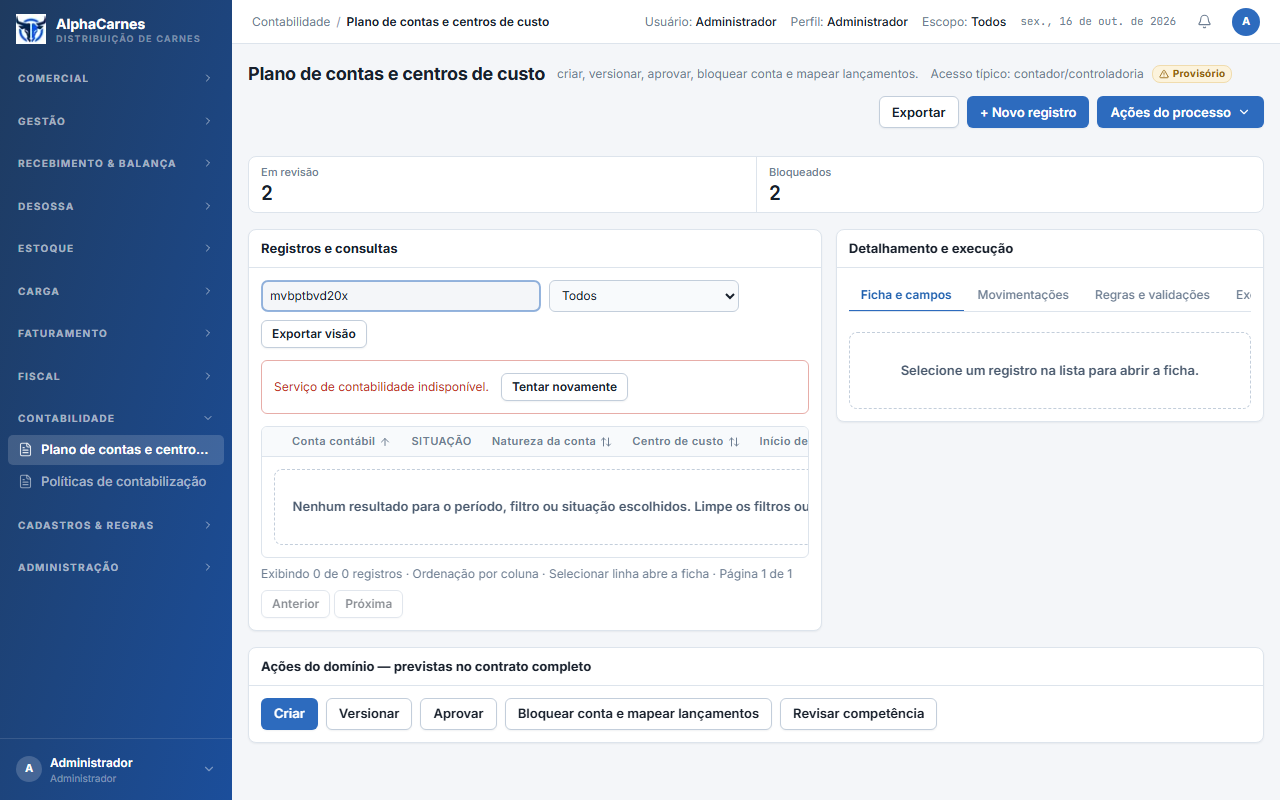
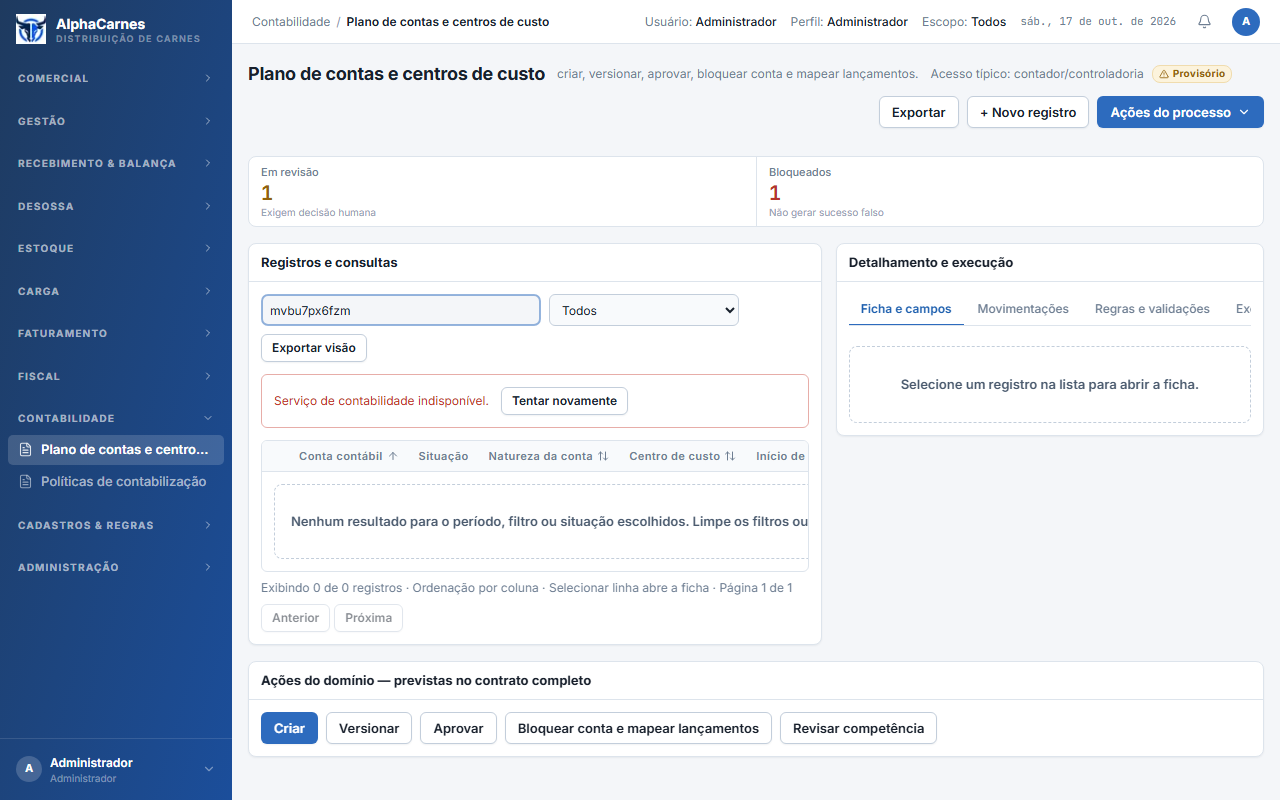
docs(e09-t01-t02): capturas do app regeradas após o Portão 2 r2, com a lista a 760px
### Descrição Detalhada:
Regera as capturas `app-*.png` de docs/evidencias/e09-t01 e e09-t02 (as do protótipo são mantidas) e acrescenta `app-lista-760.png` e `prototipo-lista-760.png` nas duas telas e `app-lookup.png` na T02. Os specs de captura passam a redimensionar para 760px depois da lista, abrir o lookup de Conta de débito na T02 e esperar o fim do "Carregando…" antes da lista.

### Motivo da Mudança:
Evidência visual dos achados do Portão 2 r2: cartões abaixo de 800px, "+ Novo registro" secundário, dicas e tons dos KPIs, parágrafo do modal e lookup das contas.

### Impacto:
Só evidências e specs de captura. Divergência a registrar: a 760px o protótipo mantém a tabela com rolagem horizontal; o app segue o plano (Task 6) e mostra um cartão por linha.

diff --git a/app/frontend/e2e/capture-e09-t02-evidencias.spec.ts b/app/frontend/e2e/capture-e09-t02-evidencias.spec.ts
@@ -83,6 +83,9 @@ test.describe('E09-T02 evidências app × protótipo', () => {
     await abrirPrototipo(proto);
     await capturar(proto, 'prototipo-lista.png', proto.locator('tr[data-row]').first());
     await capturar(proto, 'prototipo-ficha.png', proto.getByText('Trilha e responsabilização'));
+    await proto.setViewportSize({ width: 760, height: 800 });
+    await capturar(proto, 'prototipo-lista-760.png', proto.locator('tr[data-row]').first());
+    await proto.setViewportSize({ width: 1280, height: 800 });
     for (const item of ABAS_PROTOTIPO) {
       await abrirPrototipo(proto);
       await proto.getByRole('tab', { name: item.aba, exact: true }).click();
@@ -101,7 +104,12 @@ test.describe('E09-T02 evidências app × protótipo', () => {
     await expect(page.getByRole('heading', { name: TITULO, level: 1 })).toBeVisible({ timeout: 60_000 });
     await page.getByLabel('Buscar registros da lista', { exact: true }).fill(plano.debitoNome);
     await expect(page.locator('.politicas-grade tbody tr')).toHaveCount(3, { timeout: 30_000 });
+    await expect(page.getByText('Carregando…', { exact: true })).toBeHidden({ timeout: 30_000 });
     await capturar(page, 'app-lista.png', page.locator('.politicas-grade').getByText('Rascunho', { exact: true }).first());
+    // Abaixo de 800px cada linha vira cartão (Task 6): a mesma lista a 760px.
+    await page.setViewportSize({ width: 760, height: 800 });
+    await capturar(page, 'app-lista-760.png', page.locator('.politicas-grade tbody tr').first());
+    await page.setViewportSize({ width: 1280, height: 800 });
     await page.locator('.politicas-grade tbody tr').nth(1).click();
     await capturar(page, 'app-ficha.png', page.getByRole('tabpanel').getByText('Trilha e responsabilização'));
     for (const item of ABAS_APP) {
@@ -115,6 +123,11 @@ test.describe('E09-T02 evidências app × protótipo', () => {
     const drawer = page.getByRole('dialog', { name: TITULO, exact: true });
     await expect(drawer.getByLabel('Conta de débito', { exact: true }).locator('option', { hasText: plano.debitoNome })).toHaveCount(1);
     await capturar(page, 'app-drawer.png', drawer.getByRole('button', { name: 'Configurar mappings', exact: true }));
+    await drawer.getByRole('button', { name: 'Pesquisar conta de débito', exact: true }).click();
+    const lookup = page.getByRole('dialog', { name: 'Selecionar Conta de débito', exact: true });
+    await lookup.getByLabel('Pesquisar cadastro', { exact: true }).fill(plano.sufixo);
+    await capturar(page, 'app-lookup.png', lookup.getByRole('button', { name: new RegExp(plano.debitoNome) }));
+    await lookup.getByRole('button', { name: 'Fechar', exact: true }).click();
     await drawer.getByRole('button', { name: 'Voltar', exact: true }).click();
     await expect(drawer).toBeHidden();
 

diff --git a/app/frontend/e2e/capture-e09-t01-evidencias.spec.ts b/app/frontend/e2e/capture-e09-t01-evidencias.spec.ts
@@ -101,6 +101,9 @@ test.describe('E09-T01 evidências app × protótipo', () => {
     await abrirPrototipo(proto);
     await capturar(proto, 'prototipo-lista.png', proto.locator('tr[data-row]').first());
     await capturar(proto, 'prototipo-ficha.png', proto.getByText('Trilha e responsabilização'));
+    await proto.setViewportSize({ width: 760, height: 800 });
+    await capturar(proto, 'prototipo-lista-760.png', proto.locator('tr[data-row]').first());
+    await proto.setViewportSize({ width: 1280, height: 800 });
     for (const item of ABAS_PROTOTIPO) {
       await abrirPrototipo(proto);
       await proto.getByRole('tab', { name: item.aba, exact: true }).click();
@@ -120,6 +123,10 @@ test.describe('E09-T01 evidências app × protótipo', () => {
     await page.getByLabel('Buscar registros da lista', { exact: true }).fill(plano.sufixo);
     await expect(page.locator('.plano-grade tbody tr')).toHaveCount(6, { timeout: 30_000 });
     await capturar(page, 'app-lista.png', page.locator('.plano-grade').getByText('Suspenso', { exact: true }));
+    // Abaixo de 800px cada linha vira cartão (Task 6): a mesma lista a 760px.
+    await page.setViewportSize({ width: 760, height: 800 });
+    await capturar(page, 'app-lista-760.png', page.locator('.plano-grade tbody tr').first());
+    await page.setViewportSize({ width: 1280, height: 800 });
     await page.getByRole('cell', { name: `Despesas gerais ${plano.sufixo}`, exact: true }).click();
     await capturar(page, 'app-ficha.png', page.getByRole('tabpanel').getByText('Trilha e responsabilização'));
     for (const item of ABAS_APP) {
